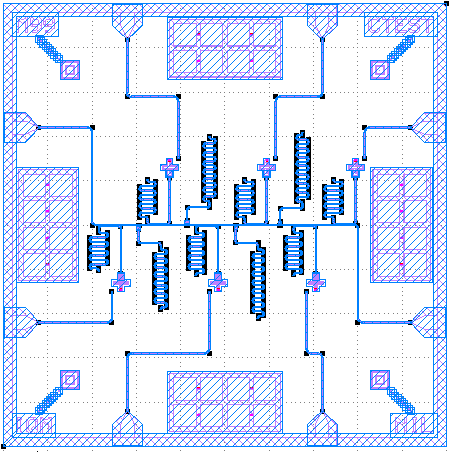
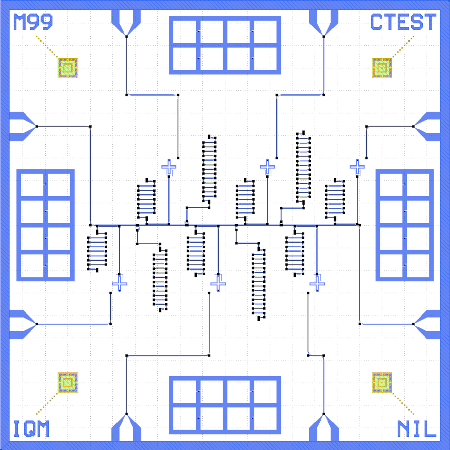
New layer color schema
* Overall, colors are more pastel
* Fills and thick edges are used in favour of hatched stipples for most-viewed layers.
* Dark mode is more pleasant, as the protection layers are now just edges
* Update Readme picture

diff --git a/python/setup.py b/python/setup.py
@@ -20,7 +20,7 @@ from setuptools import setup, find_packages
 
 setup(
     name='kqcircuits',
-    version="3.1.4",
+    version="3.1.5",
     description="KQCircuits is a KLayout/Python-based superconducting quantum circuit library developed by IQM.",
     author="IQM Finland Oy",
     author_email="developers@meetiqm.com",
